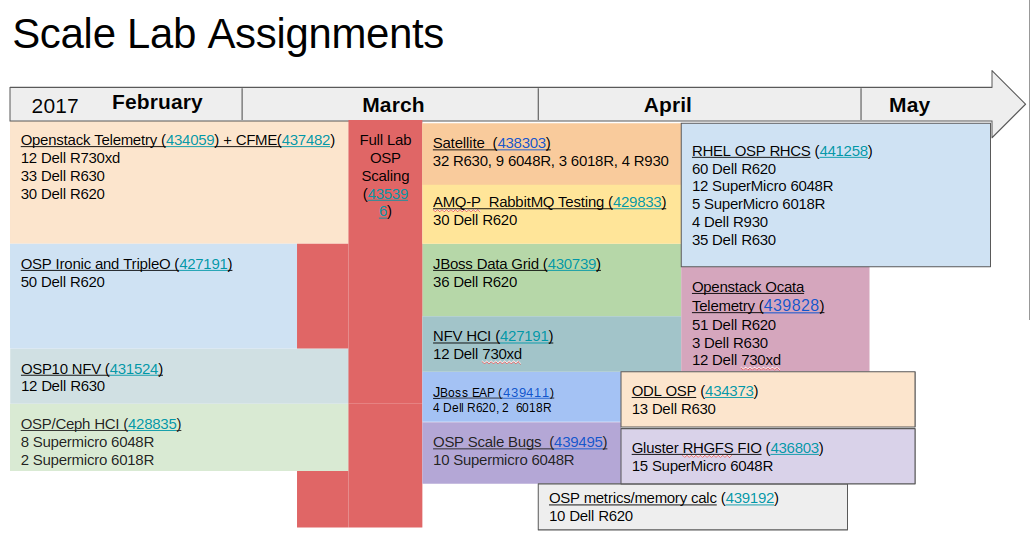
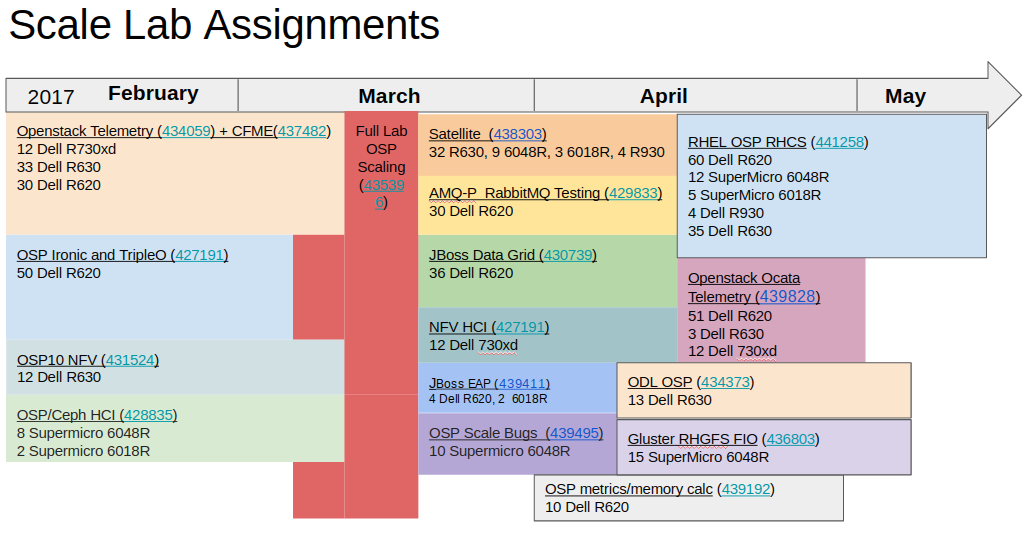
Update cron for both install types, doc updates.
* Provide examples for either container or non-container based QUADS
deployment for crons.
* Even though everything uses python logger for
move-and-rebuild-hosts.py we probably want that also going to
/var/log/move-and-rebuild.log as it's useful.
* More doc cleanup
* Remake scheduling image

diff --git a/README.md b/README.md
@@ -106,7 +106,7 @@ vi /opt/quads/conf/quads.yml
 ```
 docker-compose -f /opt/docker/quads/docker/docker-compose-production.yml up -d
 ```
-   - Access Quads Wiki via browser at `http://localhost`
+   - Access Quads Wiki via browser at `http://localhost` or `http://quads-container-host` to setup your Wiki environment.
    - Run commands against containerized quads via docker exec
 
 ```
@@ -130,7 +130,15 @@ We find it useful to create an alias on your quads container for executing quads
 echo 'alias quads="docker exec -it quads bin/quads-cli"' >> ~/.bashrc
 ```
 
+   - e.g. creating an environment and adding hosts
+```
+quads --define-cloud cloud01 --description "spare pool"
+quads --add-host host01 --default-cloud cloud01 --host-type general
+```
+
 ### Installing QUADS from Github
+This method requires you to satisfy all of your Python3 and library dependencies yourself and isn't recommended, however it probably is the only way to run QUADS on some platforms like FreeBSD.  Substitute package names and methods appropriately.
+
    - Clone the git repository (substitute paths below as needed)
 
 ```
@@ -138,11 +146,11 @@ git clone https://github.com/redhat-performance/quads /opt/quads
 ```
    - Install pre-requisite Python packages
 ```
-yum install expectk python3-aexpect python-requests
+dnf install expectk python3-aexpect python-requests python3-wordpress-xmlrpc python3-pexpect python3-paramiko ipmitool python3-cherrypy python3-mongoengine mongodb mongodb-server python3-jinja2 python3-passlib python3-PyYAML python3-requests
 ```
    - Install a webserver (Apache, nginx, etc)
 ```
-yum install httpd
+dnf install httpd
 ```
    - Create logging directory (you can edit this in ```conf/quads.yml``` via the ```log:``` parameter).
 ```
@@ -168,7 +176,7 @@ systemctl daemon-reload
 systemctl enable quads-server.service
 systemctl start quads-server.service
 ```
-   - Note: You can use QUADS on non-systemd based Linux or UNIX distributions but you'll need to run ```/opt/quads/bin/quads-server``` via an alternative init process or similiar (It's just a Python HTTP application).
+   - Note: You can use QUADS on non-systemd based Linux or UNIX distributions but you'll need to run ```/opt/quads/bin/quads-server``` via an alternative init process or similiar functionality.
 
 ### Installing QUADS from RPM
    - On Fedora *(and eventually CentOS/RHEL 8+ when it's available)*
@@ -182,7 +190,7 @@ dnf install quads -y
 vi /opt/quads/conf/quads.yml
 ```
    - Enable and Start dependent services
-   - [haveged](https://issihosts.com/haveged/) is a replacement entropy service for VM's, its optional so turn it off if you want to use `/dev/random` - this solves certain [performance issues](https://github.com/redhat-performance/quads/issues/221) known to occur with VM's and containers running in a VM.
+   - [haveged](https://issihosts.com/haveged/) is a replacement entropy service for VM's, its optional so turn it off if you want to use `/dev/random` - this solves certain [performance issues](https://github.com/redhat-performance/quads/issues/221) known to occur with lack of entropy when running QUADS in a VM.
 ```
 systemctl enable httpd
 systemctl enable haveged
